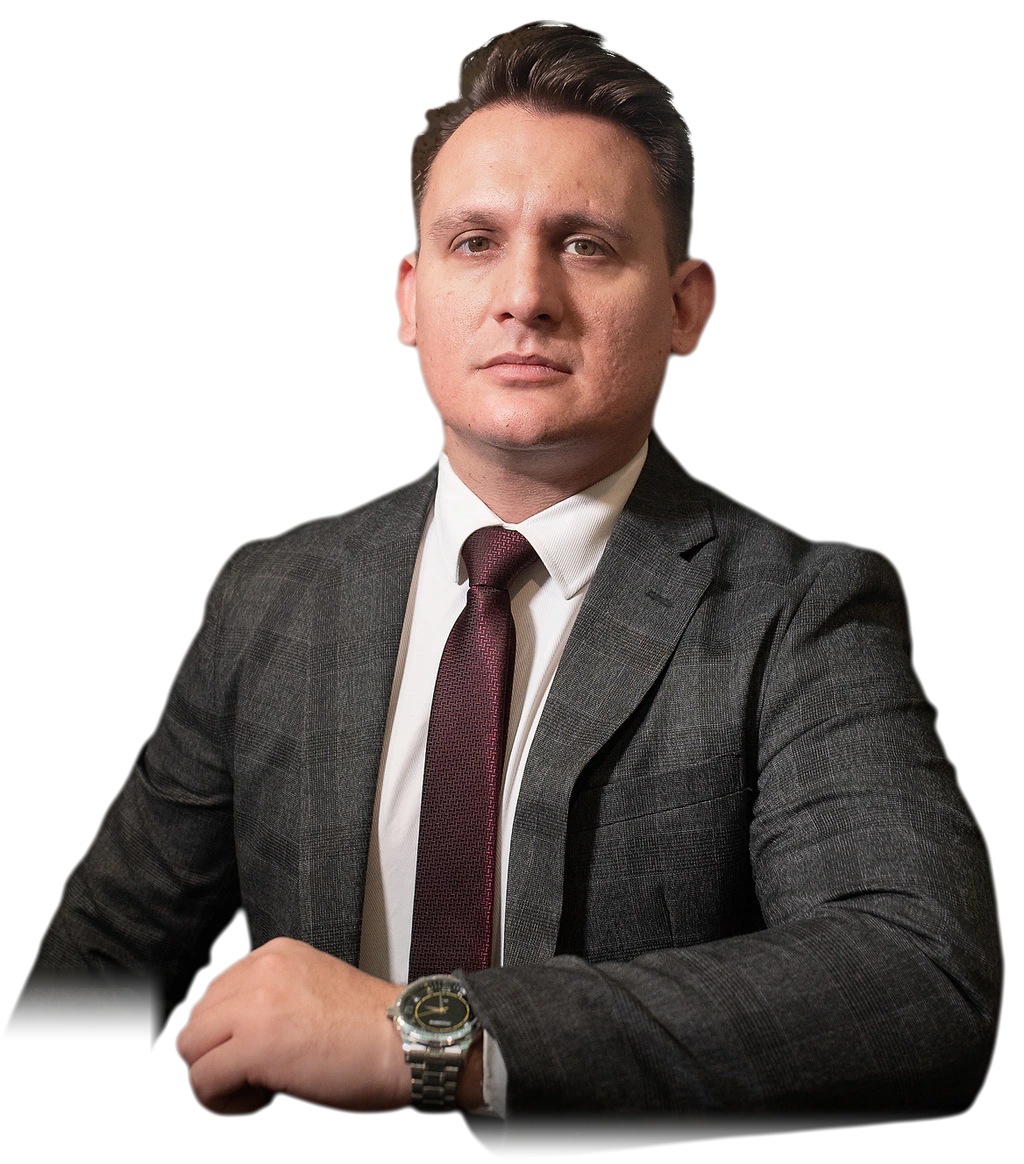
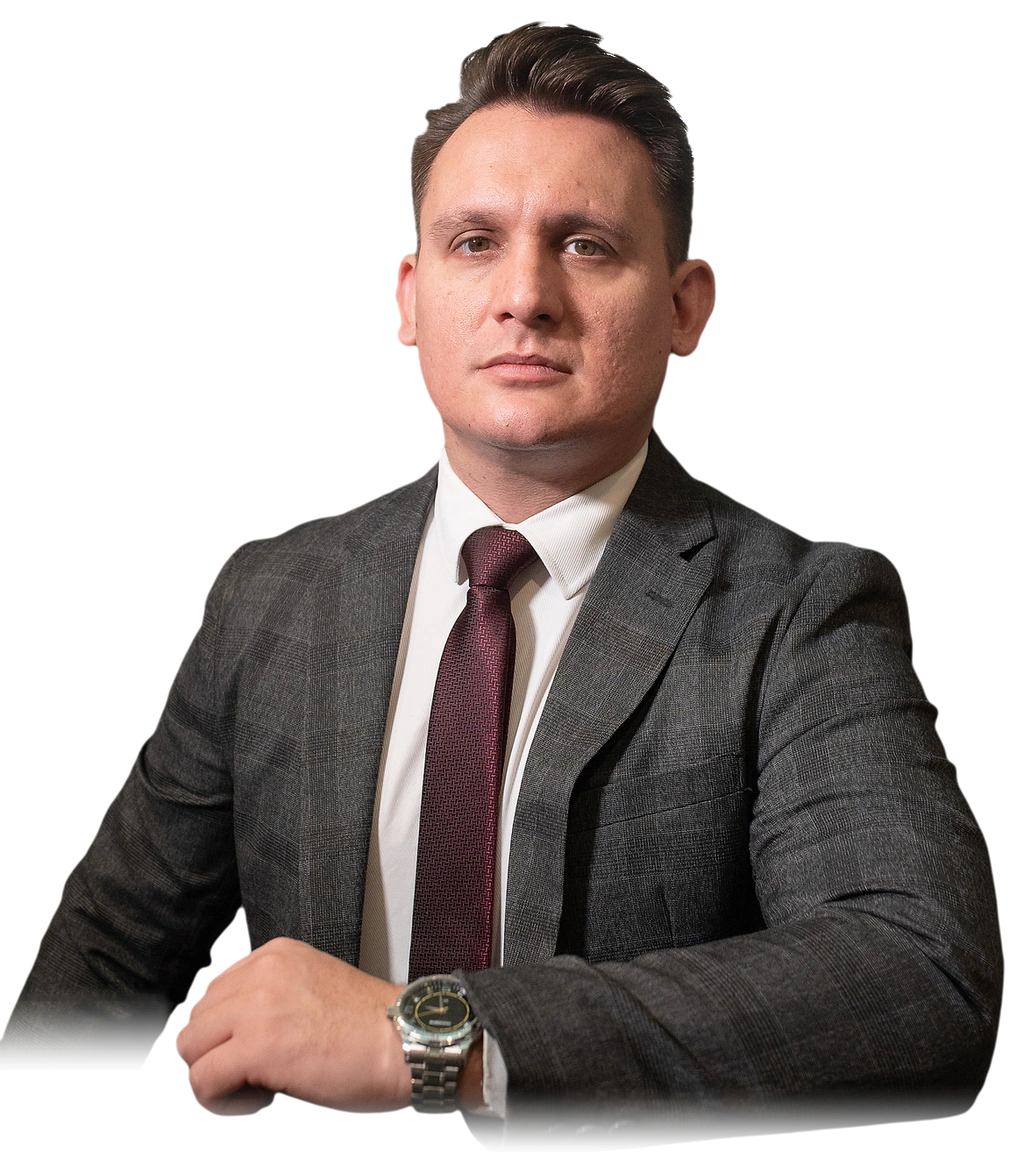
feat: ajustes na hero section e animações

diff --git a/src/pages/Home/sections/HeroSection.tsx b/src/pages/Home/sections/HeroSection.tsx
@@ -61,9 +61,26 @@ const Hero = styled.section`
       linear-gradient(180deg, #05130fa6 0%, #0a231b40 28%, #0a231b33 70%, var(--hero-bg-deep) 100%);
   }
 
+  .hero-bottom-fade {
+    position: absolute;
+    inset: auto 0 0 0;
+    height: 248px;
+    pointer-events: none;
+    z-index: 2;
+    background: linear-gradient(
+      180deg,
+      #07191400 0%,
+      #0719141f 22%,
+      #0719145c 44%,
+      #071914ad 66%,
+      #071914eb 82%,
+      var(--hero-bg-deep) 94%,
+      var(--hero-bg-deep) 100%
+    );
+  }
+
   ${Container} {
     position: relative;
-    z-index: 2;
   }
 
   .hero-grid {
@@ -74,6 +91,8 @@ const Hero = styled.section`
   }
 
   .hero-copy {
+    position: relative;
+    z-index: 3;
     padding-block: 28px 68px;
   }
 
@@ -142,37 +161,13 @@ const Hero = styled.section`
 
   .portrait-stage {
     position: relative;
+    z-index: 1;
     align-self: end;
     display: flex;
     justify-content: center;
     align-items: flex-end;
     min-height: 580px;
     padding-top: 0;
-  }
-
-  .portrait-stage::before {
-    content: '';
-    position: absolute;
-    width: 84%;
-    height: 80%;
-    bottom: 8%;
-    left: 52%;
-    transform: translateX(-50%);
-    border-radius: 50%;
-    background: radial-gradient(circle, #2b614b55 0%, #c6a76718 42%, transparent 72%);
-    filter: blur(18px);
-    pointer-events: none;
-    z-index: 0;
-  }
-
-  .portrait-stage::after {
-    content: '';
-    position: absolute;
-    inset: auto -24px 0 -24px;
-    height: 140px;
-    background: linear-gradient(180deg, #07191400 0%, #071914bd 62%, var(--hero-bg-deep) 100%);
-    pointer-events: none;
-    z-index: 2;
   }
 
   .hero-photo {
@@ -185,9 +180,6 @@ const Hero = styled.section`
     object-fit: contain;
     object-position: bottom center;
     display: block;
-    filter: drop-shadow(0 18px 38px #020a0799) contrast(1.02);
-    mask-image: linear-gradient(180deg, #000 74%, #000000a6 88%, transparent 100%);
-    -webkit-mask-image: linear-gradient(180deg, #000 74%, #000000a6 88%, transparent 100%);
   }
 
   .scroll-hint {
@@ -238,6 +230,7 @@ const Hero = styled.section`
     .hero-copy { padding-block: 16px 48px; }
     .portrait-stage { min-height: 480px; }
     .hero-photo { width: min(108%, 560px); }
+    .hero-bottom-fade { height: 210px; }
   }
 
   @media (max-width: 47.99rem) {
@@ -251,6 +244,9 @@ const Hero = styled.section`
     .hero-vignette {
       background:
         linear-gradient(180deg, #071914eb 0%, #071914cc 48%, #0a221b8c 76%, var(--hero-bg-deep) 100%);
+    }
+    .hero-bottom-fade {
+      height: 168px;
     }
     .hero-grid {
       grid-template-columns: 1fr;
@@ -282,9 +278,6 @@ const Hero = styled.section`
     .hero-photo {
       width: 100%;
     }
-    .portrait-stage::after {
-      height: 92px;
-    }
     .scroll-hint {
       font-size: 9px;
       padding-block: 14px;
@@ -303,6 +296,7 @@ export function HeroSection() {
         </div>
         <div className="hero-vignette" />
       </div>
+      <div className="hero-bottom-fade" aria-hidden="true" />
       <Container>
         <div className="hero-grid">
           <div className="hero-copy">

diff --git a/src/components/SiteLayout/Footer.tsx b/src/components/SiteLayout/Footer.tsx
@@ -3,6 +3,7 @@ import styled from 'styled-components'
 import { ArrowUpRight } from 'lucide-react'
 import { Container } from '@/styles/primitives'
 import { siteData } from '@/content/siteData'
+import { FacebookIcon, InstagramIcon } from '@/components/brand/SocialIcons'
 
 const Wrap = styled.footer`
   background: var(--primary); color: #e5ebe4; padding-block: 36px 26px;
@@ -11,7 +12,9 @@ const Wrap = styled.footer`
   .footer-qualification { font-size: 10px; letter-spacing: .12em; color: #c4cec4; margin-top: 6px; text-transform: uppercase; }
   nav { display: flex; align-items: center; flex-wrap: wrap; gap: 22px; font-size: 12px; }
   .footer-bottom { border-top: 1px solid #ffffff25; padding-top: 22px; font-size: 10px; color: #c4cec4; display: flex; justify-content: space-between; gap: 20px; flex-wrap: wrap; }
-  .social-link { display: inline-grid; place-items: center; width: 44px; height: 44px; border: 1px solid #ffffff30; border-radius: 50%; }
+  .social-link { display: inline-grid; place-items: center; width: 44px; height: 44px; border: 1px solid #ffffff30; border-radius: 50%; transition: border-color .2s, background-color .2s, color .2s; }
+  .social-link:hover { border-color: #ffffff75; background: #ffffff14; color: #fff; }
+  .social-link svg { width: 17px; height: 17px; }
   svg { width: 15px; height: 15px; }
   @media (max-width: 47.99rem) { .footer-top { flex-direction: column; } nav { gap: 16px; } }
 `
@@ -19,8 +22,8 @@ export function Footer() {
   return <Wrap><Container>
     <div className="footer-top"><div><div className="footer-name">Delano Furtado</div><p className="footer-qualification">Advocacia e consultoria jurídica</p></div>
       <nav aria-label="Navegação do rodapé"><Link to="/">Início</Link><Link to="/localizacao">Localização</Link><Link to="/contate-nos">Contato</Link>
-        <a className="social-link" href={siteData.instagramUrl} target="_blank" rel="noopener noreferrer" aria-label="Instagram de Delano Furtado"><span aria-hidden="true">ig</span></a>
-        <a className="social-link" href={siteData.facebookUrl} target="_blank" rel="noopener noreferrer" aria-label="Facebook de Delano Furtado"><span aria-hidden="true">f</span></a>
+        <a className="social-link" href={siteData.instagramUrl} target="_blank" rel="noopener noreferrer" aria-label="Instagram de Delano Furtado"><InstagramIcon aria-hidden="true" /></a>
+        <a className="social-link" href={siteData.facebookUrl} target="_blank" rel="noopener noreferrer" aria-label="Facebook de Delano Furtado"><FacebookIcon aria-hidden="true" /></a>
       </nav>
     </div>
     <div className="footer-bottom"><span>© 2026 Delano Furtado. Todos os direitos reservados.</span><span>{siteData.oab} · CNPJ {siteData.cnpj}</span><Link to="/#contato">Entre em contato <ArrowUpRight style={{ display: 'inline', marginLeft: 3 }} /></Link></div>

diff --git a/src/components/brand/SocialIcons.tsx b/src/components/brand/SocialIcons.tsx
@@ -1,0 +1,25 @@
+import type { SVGProps } from 'react'
+
+export function WhatsAppIcon(props: SVGProps<SVGSVGElement>) {
+  return (
+    <svg viewBox="0 0 24 24" fill="currentColor" {...props}>
+      <path d="M12.04 2C6.58 2 2.13 6.45 2.13 11.91c0 1.75.46 3.45 1.32 4.95L2.05 22l5.25-1.38c1.45.79 3.08 1.21 4.74 1.21 5.46 0 9.91-4.45 9.91-9.91C21.95 6.45 17.5 2 12.04 2Zm5.82 14.01c-.24.68-1.41 1.3-1.95 1.38-.5.08-1.13.11-1.83-.11-.42-.13-.97-.31-1.66-.61-2.92-1.26-4.83-4.21-4.98-4.4-.15-.19-1.19-1.58-1.19-3.01 0-1.43.75-2.13 1.02-2.42.27-.29.59-.36.79-.36.2 0 .4.01.57.01.18.01.43-.07.67.51.25.6.84 2.06.91 2.21.08.15.13.32.03.52-.1.2-.15.32-.3.49-.15.17-.31.38-.44.51-.15.15-.3.31-.13.6.17.29.76 1.25 1.63 2.02 1.12 1 2.06 1.31 2.35 1.46.29.15.46.13.63-.08.17-.2.73-.85.92-1.14.2-.29.39-.24.66-.15.27.1 1.71.81 2 .95.29.15.49.22.56.34.07.12.07.7-.17 1.38Z" />
+    </svg>
+  )
+}
+
+export function InstagramIcon(props: SVGProps<SVGSVGElement>) {
+  return (
+    <svg viewBox="0 0 24 24" fill="currentColor" {...props}>
+      <path d="M12 2.16c3.2 0 3.58.01 4.85.07 1.17.05 1.8.25 2.23.41.56.22.96.48 1.38.9.42.42.68.82.9 1.38.16.42.36 1.06.41 2.23.06 1.27.07 1.65.07 4.85s-.01 3.58-.07 4.85c-.05 1.17-.25 1.8-.41 2.23a3.72 3.72 0 0 1-.9 1.38c-.42.42-.82.68-1.38.9-.42.16-1.06.36-2.23.41-1.27.06-1.65.07-4.85.07s-3.58-.01-4.85-.07c-1.17-.05-1.8-.25-2.23-.41a3.72 3.72 0 0 1-1.38-.9 3.72 3.72 0 0 1-.9-1.38c-.16-.42-.36-1.06-.41-2.23C2.17 15.58 2.16 15.2 2.16 12s.01-3.58.07-4.85c.05-1.17.25-1.8.41-2.23.22-.56.48-.96.9-1.38.42-.42.82-.68 1.38-.9.42-.16 1.06-.36 2.23-.41C8.42 2.17 8.8 2.16 12 2.16ZM12 0C8.74 0 8.33.01 7.05.07 5.78.13 4.9.33 4.14.63c-.79.31-1.46.72-2.13 1.39A5.88 5.88 0 0 0 .63 4.14C.33 4.9.13 5.78.07 7.05.01 8.33 0 8.74 0 12s.01 3.67.07 4.95c.06 1.27.26 2.15.56 2.91.31.79.72 1.46 1.39 2.13.67.67 1.34 1.08 2.13 1.39.76.3 1.64.5 2.91.56 1.28.06 1.69.07 4.95.07s3.67-.01 4.95-.07c1.27-.06 2.15-.26 2.91-.56.79-.31 1.46-.72 2.13-1.39.67-.67 1.08-1.34 1.39-2.13.3-.76.5-1.64.56-2.91.06-1.28.07-1.69.07-4.95s-.01-3.67-.07-4.95c-.06-1.27-.26-2.15-.56-2.91a5.88 5.88 0 0 0-1.39-2.13A5.88 5.88 0 0 0 19.86.63c-.76-.3-1.64-.5-2.91-.56C15.67.01 15.26 0 12 0Zm0 5.84a6.16 6.16 0 1 0 0 12.32 6.16 6.16 0 0 0 0-12.32ZM12 16a4 4 0 1 1 0-8 4 4 0 0 1 0 8Zm6.41-11.85a1.44 1.44 0 1 0 0 2.88 1.44 1.44 0 0 0 0-2.88Z" />
+    </svg>
+  )
+}
+
+export function FacebookIcon(props: SVGProps<SVGSVGElement>) {
+  return (
+    <svg viewBox="0 0 24 24" fill="currentColor" {...props}>
+      <path d="M13.62 22v-9.12h3.06l.46-3.56h-3.52V7.05c0-1.03.29-1.73 1.76-1.73h1.89V2.14A25.2 25.2 0 0 0 14.53 2c-2.71 0-4.57 1.66-4.57 4.7v2.62H6.89v3.56h3.07V22h3.66Z" />
+    </svg>
+  )
+}

diff --git a/src/components/SiteLayout/index.tsx b/src/components/SiteLayout/index.tsx
@@ -1,7 +1,6 @@
 import { useRef, type ReactNode } from 'react'
 import { useLocation } from 'react-router-dom'
 import { usePageMotion } from '@/hooks/usePageMotion'
-import { MessageCircle } from 'lucide-react'
 import styled from 'styled-components'
 import { Header } from './Header'
 import { Footer } from './Footer'
@@ -9,12 +8,13 @@ import { RouteEffects } from './RouteEffects'
 import { RouteSeo } from './RouteSeo'
 import { siteData } from '@/content/siteData'
 import { buildWhatsAppUrl } from '@/lib/contactLinks'
+import { WhatsAppIcon } from '@/components/brand/SocialIcons'
 
 const FloatingContact = styled.a`
   position: fixed; z-index: 30; right: max(22px, env(safe-area-inset-right)); bottom: max(22px, env(safe-area-inset-bottom));
   display: grid; place-items: center; width: 54px; height: 54px; background: var(--primary); color: white;
   border: 1px solid #ffffff50; border-radius: 50%; box-shadow: 0 5px 24px #20382f25; transition: background .2s;
-  &:hover { background: #426653; } svg { width: 23px; height: 23px; }
+  &:hover { background: #426653; } svg { width: 25px; height: 25px; }
   body:has(#nl-badge-frame) & { bottom: calc(84px + env(safe-area-inset-bottom)); }
 `
 export function SiteLayout({ children }: { children: ReactNode }) {
@@ -23,6 +23,6 @@ export function SiteLayout({ children }: { children: ReactNode }) {
   usePageMotion(scope, pathname)
   return <><RouteSeo /><a href="#main-content" className="skip-link">Pular para o conteúdo</a><Header /><RouteEffects />
     <main id="main-content" ref={scope}>{children}</main><Footer />
-    <FloatingContact href={buildWhatsAppUrl(siteData.phoneInternational, siteData.whatsappMessage)} target="_blank" rel="noopener noreferrer" aria-label="Conversar pelo WhatsApp"><MessageCircle aria-hidden="true" /></FloatingContact>
+    <FloatingContact href={buildWhatsAppUrl(siteData.phoneInternational, siteData.whatsappMessage)} target="_blank" rel="noopener noreferrer" aria-label="Conversar pelo WhatsApp"><WhatsAppIcon aria-hidden="true" /></FloatingContact>
   </>
 }

diff --git a/src/pages/Contact/index.tsx b/src/pages/Contact/index.tsx
@@ -3,8 +3,9 @@ import { PageSection } from '@/styles/pageStyles'
 import { siteData } from '@/content/siteData'
 import { ContactCta } from '@/components/brand/ContactCta'
 import { ContactChannels } from '@/components/brand/ContactChannels'
+import { FacebookIcon, InstagramIcon } from '@/components/brand/SocialIcons'
 export default function Contact() {
   return <PageSection><Container><div className="page-grid"><div data-reveal="section"><SmallLabel>Contato</SmallLabel><h1 tabIndex={-1}>Vamos conversar sobre o seu caso?</h1><p className="page-intro">Apresente sua demanda para conhecer as possibilidades de atendimento. Escolha o canal mais confortável para você.</p><ContactCta label="Iniciar conversa no WhatsApp" /><p className="small-copy" style={{ marginTop: 24 }}>O botão abre uma conversa no WhatsApp. Você também pode entrar em contato por telefone ou e-mail.</p></div>
-    <div className="info-panel" data-reveal="card"><h2>Canais de atendimento</h2><ContactChannels /><nav className="socials" aria-label="Redes sociais"><a href={siteData.instagramUrl} target="_blank" rel="noopener noreferrer">Instagram</a><a href={siteData.facebookUrl} target="_blank" rel="noopener noreferrer">Facebook</a></nav></div>
+    <div className="info-panel" data-reveal="card"><h2>Canais de atendimento</h2><ContactChannels /><nav className="socials" aria-label="Redes sociais"><a href={siteData.instagramUrl} target="_blank" rel="noopener noreferrer"><InstagramIcon aria-hidden="true" />Instagram</a><a href={siteData.facebookUrl} target="_blank" rel="noopener noreferrer"><FacebookIcon aria-hidden="true" />Facebook</a></nav></div>
   </div></Container></PageSection>
 }

diff --git a/src/styles/pageStyles.ts b/src/styles/pageStyles.ts
@@ -10,7 +10,7 @@ export const PageSection = styled(Section)`
   .address { font-style: normal; font-size: 16px; line-height: 1.9; margin-block: 24px; }
   .map-link, .return-link { display: inline-flex; align-items: center; gap: 24px; min-height: 48px; font-size: 13px; font-weight: 600; border-bottom: 1px solid var(--primary); }
   .map-link svg { width: 17px; height: 17px; }
-  .socials { display: flex; flex-wrap: wrap; gap: 24px; margin-top: 24px; } .socials a { min-height: 44px; display: inline-flex; align-items: center; font-size: 13px; text-decoration: underline; text-underline-offset: 4px; }
+  .socials { display: flex; flex-wrap: wrap; gap: 24px; margin-top: 24px; } .socials a { min-height: 44px; display: inline-flex; align-items: center; gap: 8px; font-size: 13px; text-decoration: underline; text-underline-offset: 4px; } .socials a svg { width: 16px; height: 16px; flex-shrink: 0; }
   .small-copy { font-size: 14px; line-height: 1.9; color: var(--muted-foreground); margin-bottom: 24px; }
   @media (max-width: 63.99rem) { .page-grid { gap: 40px; } }
   @media (max-width: 47.99rem) { .page-grid { grid-template-columns: 1fr; } .info-panel { padding: 28px 24px; } }
